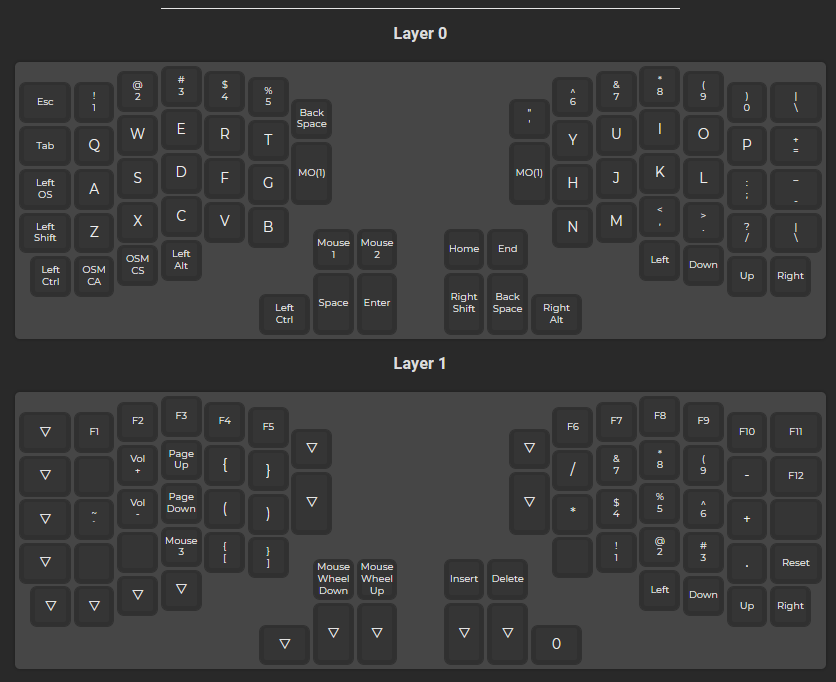
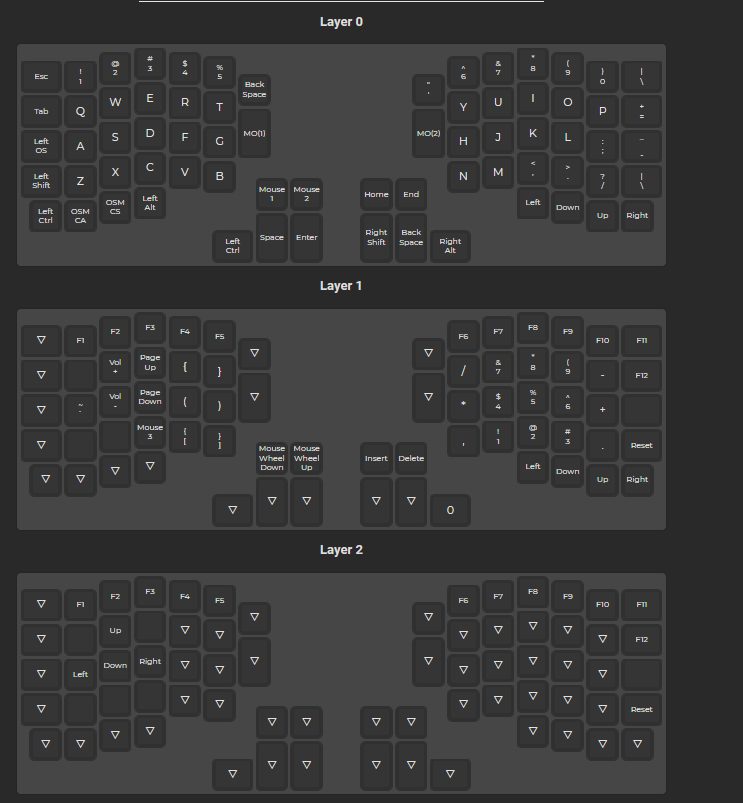
Add new layer for arrow keys
The keys on the bottom are a pain to use as I have to move my hand down a lot

diff --git a/keymap.c b/keymap.c
@@ -9,8 +9,9 @@
 
 
 const uint16_t PROGMEM keymaps[][MATRIX_ROWS][MATRIX_COLS] = {
-	[0] = LAYOUT(KC_ESC, KC_1, KC_2, KC_3, KC_4, KC_5, KC_6, KC_7, KC_8, KC_9, KC_0, KC_NUBS, KC_TAB, KC_Q, KC_W, KC_E, KC_R, KC_T, KC_BSPC, KC_QUOT, KC_Y, KC_U, KC_I, KC_O, KC_P, KC_EQL, KC_LGUI, KC_A, KC_S, KC_D, KC_F, KC_G, MO(1), MO(1), KC_H, KC_J, KC_K, KC_L, KC_SCLN, KC_MINS, KC_LSFT, KC_Z, KC_X, KC_C, KC_V, KC_B, KC_BTN1, KC_BTN2, KC_HOME, KC_END, KC_N, KC_M, KC_COMM, KC_DOT, KC_SLSH, KC_NUHS, KC_LCTL, OSM(MOD_LCTL|MOD_LALT), OSM(MOD_LCTL|MOD_LSFT), KC_LALT, KC_LCTL, KC_SPC, KC_ENT, KC_RSFT, KC_BSPC, KC_RALT, KC_LEFT, KC_DOWN, KC_UP, KC_RGHT),
-	[1] = LAYOUT(KC_TRNS, KC_F1, KC_F2, KC_F3, KC_F4, KC_F5, KC_F6, KC_F7, KC_F8, KC_F9, KC_F10, KC_F11, KC_TRNS, KC_NO, KC_VOLU, KC_PGUP, KC_LCBR, KC_RCBR, KC_TRNS, KC_TRNS, KC_PSLS, KC_7, KC_8, KC_9, KC_PMNS, KC_F12, KC_TRNS, KC_GRV, KC_VOLD, KC_PGDN, KC_LPRN, KC_RPRN, KC_TRNS, KC_TRNS, KC_PAST, KC_4, KC_5, KC_6, KC_PPLS, KC_NO, KC_TRNS, KC_NO, KC_NO, KC_BTN3, KC_LBRC, KC_RBRC, KC_WH_D, KC_WH_U, KC_INS, KC_DEL, KC_NO, KC_1, KC_2, KC_3, KC_PDOT, QK_BOOT, KC_TRNS, KC_TRNS, KC_TRNS, KC_TRNS, KC_TRNS, KC_TRNS, KC_TRNS, KC_TRNS, KC_TRNS, KC_P0, KC_LEFT, KC_DOWN, KC_UP, KC_RGHT)
+	[0] = LAYOUT(KC_ESC, KC_1, KC_2, KC_3, KC_4, KC_5, KC_6, KC_7, KC_8, KC_9, KC_0, KC_NUBS, KC_TAB, KC_Q, KC_W, KC_E, KC_R, KC_T, KC_BSPC, KC_QUOT, KC_Y, KC_U, KC_I, KC_O, KC_P, KC_EQL, KC_LGUI, KC_A, KC_S, KC_D, KC_F, KC_G, MO(1), MO(2), KC_H, KC_J, KC_K, KC_L, KC_SCLN, KC_MINS, KC_LSFT, KC_Z, KC_X, KC_C, KC_V, KC_B, KC_BTN1, KC_BTN2, KC_HOME, KC_END, KC_N, KC_M, KC_COMM, KC_DOT, KC_SLSH, KC_NUHS, KC_LCTL, OSM(MOD_LCTL|MOD_LALT), OSM(MOD_LCTL|MOD_LSFT), KC_LALT, KC_LCTL, KC_SPC, KC_ENT, KC_RSFT, KC_BSPC, KC_RALT, KC_LEFT, KC_DOWN, KC_UP, KC_RGHT),
+	[1] = LAYOUT(KC_TRNS, KC_F1, KC_F2, KC_F3, KC_F4, KC_F5, KC_F6, KC_F7, KC_F8, KC_F9, KC_F10, KC_F11, KC_TRNS, KC_NO, KC_VOLU, KC_PGUP, KC_LCBR, KC_RCBR, KC_TRNS, KC_TRNS, KC_PSLS, KC_7, KC_8, KC_9, KC_PMNS, KC_F12, KC_TRNS, KC_GRV, KC_VOLD, KC_PGDN, KC_LPRN, KC_RPRN, KC_TRNS, KC_TRNS, KC_PAST, KC_4, KC_5, KC_6, KC_PPLS, KC_NO, KC_TRNS, KC_NO, KC_NO, KC_BTN3, KC_LBRC, KC_RBRC, KC_WH_D, KC_WH_U, KC_INS, KC_DEL, KC_PCMM, KC_1, KC_2, KC_3, KC_PDOT, QK_BOOT, KC_TRNS, KC_TRNS, KC_TRNS, KC_TRNS, KC_TRNS, KC_TRNS, KC_TRNS, KC_TRNS, KC_TRNS, KC_P0, KC_LEFT, KC_DOWN, KC_UP, KC_RGHT),
+	[2] = LAYOUT(KC_TRNS, KC_F1, KC_F2, KC_F3, KC_F4, KC_F5, KC_F6, KC_F7, KC_F8, KC_F9, KC_F10, KC_F11, KC_TRNS, KC_NO, KC_UP, KC_NO, KC_TRNS, KC_TRNS, KC_TRNS, KC_TRNS, KC_TRNS, KC_TRNS, KC_TRNS, KC_TRNS, KC_TRNS, KC_F12, KC_TRNS, KC_LEFT, KC_DOWN, KC_RGHT, KC_TRNS, KC_TRNS, KC_TRNS, KC_TRNS, KC_TRNS, KC_TRNS, KC_TRNS, KC_TRNS, KC_TRNS, KC_NO, KC_TRNS, KC_NO, KC_NO, KC_NO, KC_TRNS, KC_TRNS, KC_TRNS, KC_TRNS, KC_TRNS, KC_TRNS, KC_TRNS, KC_TRNS, KC_TRNS, KC_TRNS, KC_TRNS, QK_BOOT, KC_TRNS, KC_TRNS, KC_TRNS, KC_TRNS, KC_TRNS, KC_TRNS, KC_TRNS, KC_TRNS, KC_TRNS, KC_TRNS, KC_TRNS, KC_TRNS, KC_TRNS, KC_TRNS)
 };
 
 #if defined(ENCODER_ENABLE) && defined(ENCODER_MAP_ENABLE)

diff --git a/Readme.md b/Readme.md
@@ -1,10 +1,18 @@
 This is my setup for the Redox rev1 keyboard. It is based on a QWERTY layout for its plug-and-play capability and uses two software layouts that I change as needed.
 There is a .json file that can be uploaded to QMK Configurator. There is also a .zip file with an installer for colemak UK.
 
-Software layout:
+# Commands:
+```
+cd "your/path/to/keymaps"
+qmk json2c layout.json -o keymap.c
+qmk flash
+```
+
+
+ Software layout:
 - UK extended (available in Windows and Linux)
 - Colemak UK (https://colemak.com/File:Cmkuk.zip)
 
-Physical layout:
+# Physical layout:
 
 ![Physical layout](layout.png)
